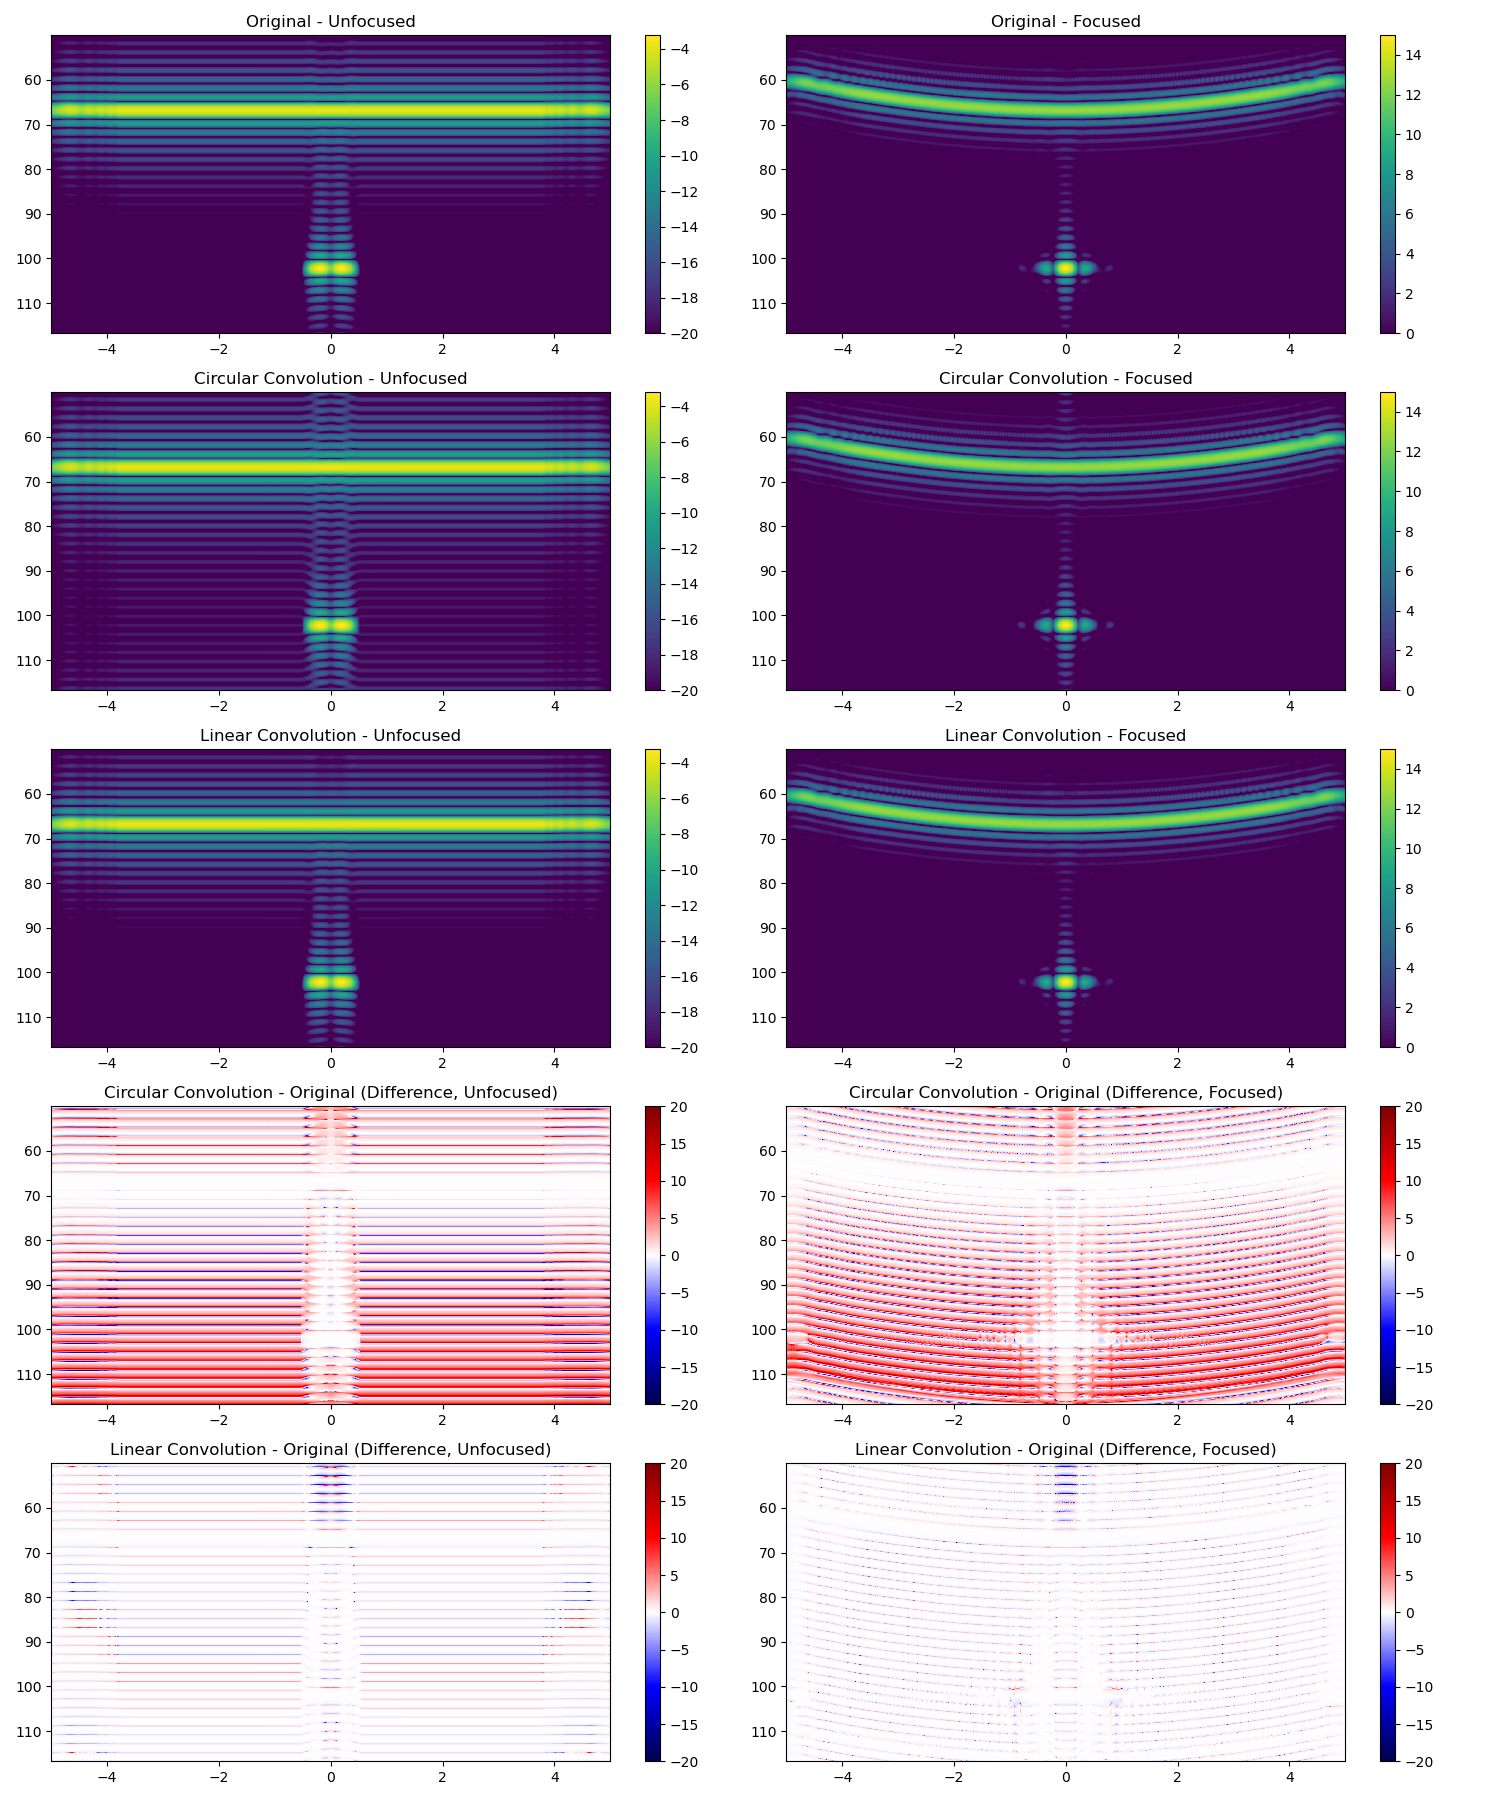
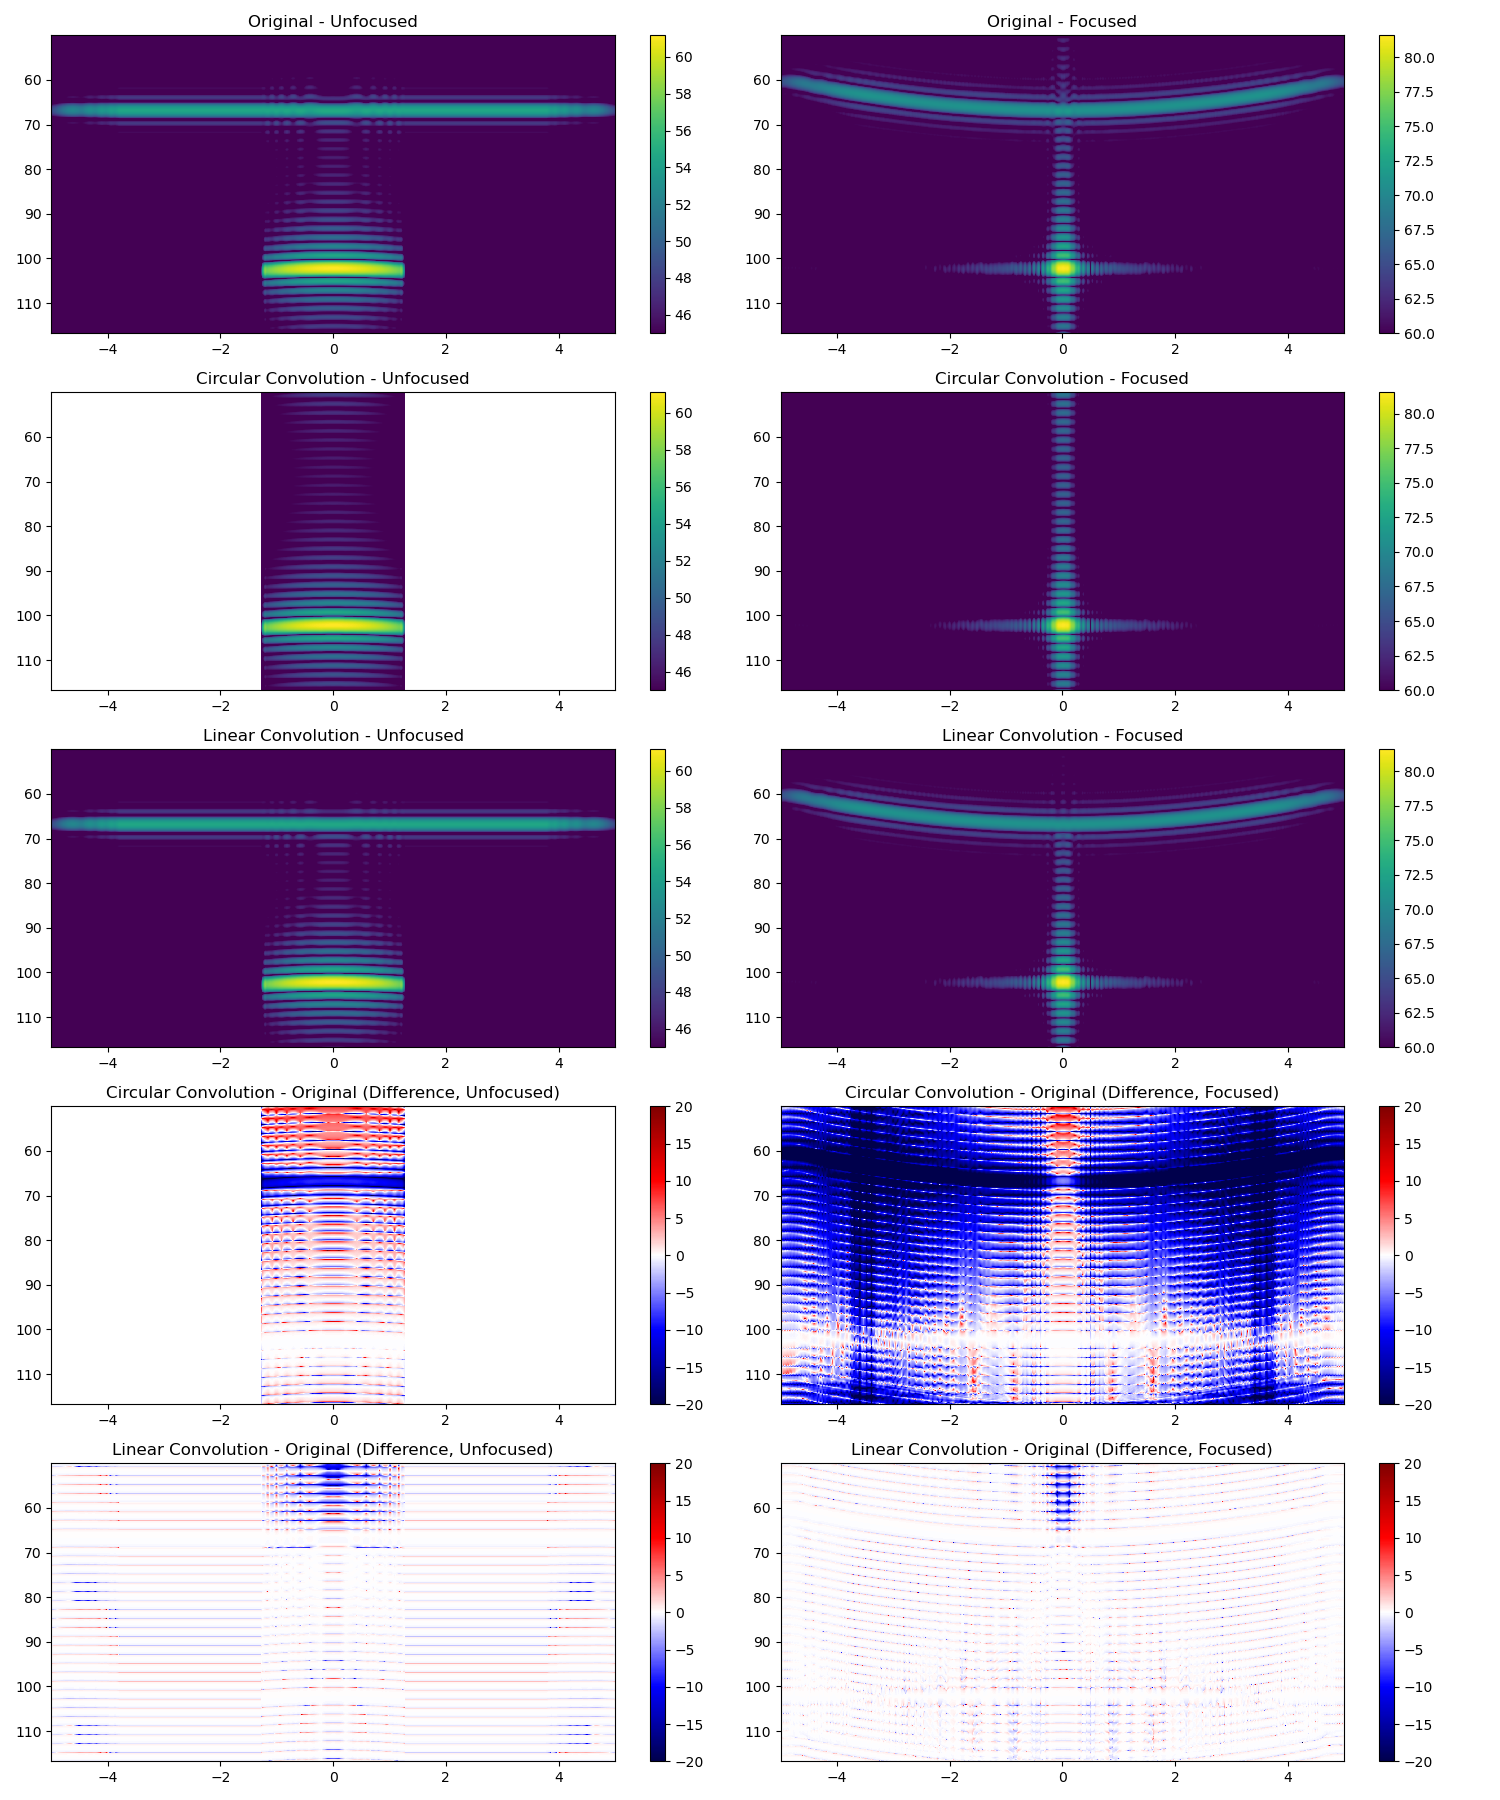
Updated convolution comparison for TGRS

diff --git a/examples/UNIT_TESTS/convolutionCompare/plot.py b/examples/UNIT_TESTS/convolutionCompare/plot.py
@@ -1,15 +1,21 @@
 import numpy as np
 import matplotlib.pyplot as plt
-import pickle
+import pickle, sys
+
+sys.path.append("../../../src/PYTHON")
+import rdr_plots       as rp
 
 directory = "rdrgrms/"
-unfocused_files = ["NoConv_raw.npz", "CircConv_raw.npz", "LinConv_raw.npz"]
-focused_files   = ["NoConv_focused.npz", "CircConv_focused.npz", "LinConv_focused.npz"]
-names           = ["Original", "Circular Convolution", "Linear Convolution"]
+unfocused_files = ["NoConv_raw.npz", "LinConv_raw.npz"]
+focused_files   = ["NoConv_focused.npz", "LinConv_focused.npz"]
+names           = ["Original", "Linear Convolution"]
 
 with open("inputs/NoConv.pkl", 'rb') as hdl:
     params = pickle.load(hdl)
 
+rp.TGRS_rdrgrm_conv(params, directory, focused_files, unfocused_files, names)
+
+"""
 # 5 rows: 3 methods + 2 diff rows, 2 columns: unfocused and focused
 fig, axes = plt.subplots(5, 2, figsize=(15, 18))
 
@@ -26,11 +32,11 @@ for i, (unf_file, foc_file, name) in enumerate(zip(unfocused_files, focused_file
               2*params["rx_window_offset_m"]/299.792458]
 
     # Plot unfocused and focused images with colorbars
-    im_unf = axes[i][0].imshow(rdrgrm_unf, aspect='auto', cmap='viridis', interpolation='nearest', vmin=-20, extent=extent)
+    im_unf = axes[i][0].imshow(rdrgrm_unf, aspect='auto', cmap='viridis', interpolation='nearest', vmin=45, extent=extent)
     axes[i][0].set_title(f"{name} - Unfocused")
     fig.colorbar(im_unf, ax=axes[i][0])
 
-    im_foc = axes[i][1].imshow(rdrgrm_foc, aspect='auto', cmap='viridis', interpolation='nearest', vmin=0, extent=extent)
+    im_foc = axes[i][1].imshow(rdrgrm_foc, aspect='auto', cmap='viridis', interpolation='nearest', vmin=60, extent=extent)
     axes[i][1].set_title(f"{name} - Focused")
     fig.colorbar(im_foc, ax=axes[i][1])
 
@@ -52,3 +58,4 @@ for j, conv_idx in enumerate([1, 2]):  # indices for Circular and Linear Convolu
 plt.tight_layout()
 plt.savefig("ConvolutionComparison.png")
 plt.close()
+"""

diff --git a/examples/UNIT_TESTS/convolutionCompare/params.py b/examples/UNIT_TESTS/convolutionCompare/params.py
@@ -9,11 +9,11 @@ params = {
     "power": 100,             # Transmitter power [W]
     "frequency": 9e6,         # Radar frequency [Hz]
     "bandwidth": 1e6,         # Radar bandwidth [Hz]
-    "surface_gain": 55,       # Antenna gain [dB]
-    "subsurface_gain": 65,   # Subsurface antenna gain [dB]
+    "surface_gain": 35,       # Antenna gain [dB]
+    "subsurface_gain": 45,   # Subsurface antenna gain [dB]
     "range_resolution": 300,  # range resolution [m]
     "polarization": "HH",     # polarization (HH, VV, HV, VH)
-    "aperture": 7,           # aperture (from nadir->edge) [deg]
+    "aperture": 3,           # aperture (from nadir->edge) [deg]
 
     # receive window parameters
     "rx_window_m":  10e3,         # receive window length [m]
@@ -54,7 +54,7 @@ params = {
     "ny": 400,
 
     # target function
-    "rerad_funct": 1, # 1-degree boxcar
+    "rerad_funct": 2, # 1-degree boxcar
 
     # processing parameters (BOOLEAN)
     "convolution": True,   # use convolution-based processing
